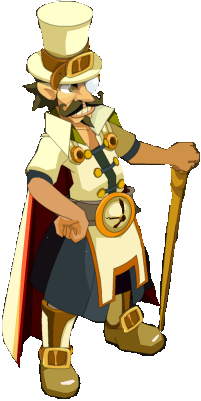
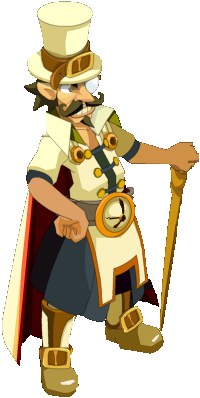
Add angry sbab + show clean answer

diff --git a/server.js b/server.js
@@ -63,7 +63,6 @@ app.post('/getNextStep', (req, res) => {
 		.replace(/\W/ig, '')
 		.toUpperCase();
 
-
 	res.setHeader('Content-Type', 'application/json');
 
 	if(sanitizedAnswer !== '') {
@@ -77,10 +76,10 @@ app.post('/getNextStep', (req, res) => {
 			clues.forEach((clue) => {
 				if(alreadyFoundClue) return;
 
-				const { acceptableAnswers, key, previousKey } = clue;
+				const { acceptableAnswers, key, previousKey, cleanAnswer } = clue;
 
 				// if the clue follow the chronology
-				if(currentKey === previousKey) {
+				if(currentKey === previousKey && acceptableAnswers !== '') {
 
 					// if the anwser matches at least one acceptable answer
 					if(sanitizedAnswer.search(acceptableAnswers) > -1){
@@ -89,7 +88,7 @@ app.post('/getNextStep', (req, res) => {
 							const cluehtmlPath = CLUES_HTML + '/'+ key +'.html';
 							try {
 								const clueHtml = fs.readFileSync(cluehtmlPath, {encoding:'utf8', flag:'r'});
-								res.end(JSON.stringify({ err: 'ok', msg: clueHtml, key: key}));
+								res.end(JSON.stringify({ err: 'ok', msg: clueHtml, key: key, cleanAnswer: cleanAnswer}));
 							} catch (err) {
 								if (err) console.error('Clue html not found ('+cluehtmlPath+')');
 							}
@@ -101,7 +100,7 @@ app.post('/getNextStep', (req, res) => {
 			});
 
 			if(!isCurrentKeyFound) {
-				res.end(JSON.stringify({ err: 'reset', msg: '<p class="text-danger">Cette étape n\'est pas dans notre base de données. Vous devez tout reprendre depuis le début...</p>', key: 'A32LD7REEPT'}));
+				res.end(JSON.stringify({ err: 'reset', msg: '<p class="text-danger">Cette étape n\'est pas dans notre base de données. Vous devez tout reprendre depuis le début...</p>', key: '0CTOSMJF6PH'}));
 			} else {
 				res.end(JSON.stringify({ err: 'wrong', msg: 'Non ce n\'est pas ça :/', key: currentKey}));
 			}

diff --git a/public_html/frontend.js b/public_html/frontend.js
@@ -6,7 +6,7 @@ function start() {
 		$('#answer').removeAttr('disabled');
 		$('#button-answer').removeAttr('disabled');
 		stopLoading();
-		nextStep('A32LD7REEPT');
+		nextStep('0CTOSMJF6PH');
 		$('.answerField').hide().fadeIn(FADE_TIME*2, () => {$('#answer').focus();});
 	})});
 };
@@ -33,26 +33,26 @@ function nextStep(answer) {
 		}
 	})
 	.done((response) => {
-		handleAnswer(response.err, response.msg, response.key, answer);
+		handleAnswer(response.err, response.msg, response.key, response.cleanAnswer);
 	})
 	.always(() => {
 		stopLoading();
 	});	
 }
 
-function handleAnswer(error, htmlToPrint, newKey, answer) {
+function handleAnswer(error, htmlToPrint, newKey, cleanAnswer) {
 	$('#progression').val(newKey);
 	if(error === 'ok'){
-		// show the answer written by the user
-		if(answer !== newKey) {
-			hideAppendAndFadeInHtmlTo('<div class="text-primary center">'+answer+'</div><hr class="separator mb-2"/>', '.indices');
+		// show the perfect answer
+		if(cleanAnswer !== '') {
+			hideAppendAndFadeInHtmlTo('<div class="text-primary center">'+cleanAnswer+'</div><hr class="separator mb-2"/>', '.indices');
 		}
 		// show the next clue
 		hideAppendAndFadeInHtmlTo('<div class="row indice p-2">'+htmlToPrint+'</div>', '.indices');
 		window.scrollBy(0, 300);
 	} else if(error === 'reset'){
 		$('.indices').append('<hr class="separator"/><div class="row indice p-2 mb-3">'+htmlToPrint+'</div>');
-		nextStep('A32LD7REEPT');
+		nextStep('0CTOSMJF6PH');
 	} else {
 		$('.wrongAnswer').html(htmlToPrint);
 		$('.wrongAnswer-container').fadeIn(FADE_TIME/2);

diff --git a/views/clues_html/MMRL6JV1NM6.html b/views/clues_html/MMRL6JV1NM6.html
@@ -12,11 +12,9 @@
 <p><br/>
 	Trouvez la maison et ouvrez le coffre. Le code doit être un nombre très important pour son propriétaire.<br/><br/>
 	Le coffre contient des Kamatrix. Merci d'en prendre <b>un seul</b> et retournez annoncer la bonne nouvelle à Le-Patron à Brâkmar et lancez-lui échange. Il saura vous récompenser à la mesure de vos efforts.<br/>
-	Le 1er joueur obtiendra 5 galets Cramoisi, Rutilant, Brasillant<br/>
-	Le 2nd joueur obtiendra 4 galets Cramoisi, Rutilant, Brasillant<br/>
+	Le 1er joueur obtiendra 10 galets Cramoisi, Rutilant, Brasillant<br/>
+	Le 2nd joueur obtiendra 6 galets Cramoisi, Rutilant, Brasillant<br/>
 	Le 3ème joueur obtiendra 3 galets Cramoisi, Rutilant, Brasillant<br/>
-	Le 4ème joueur obtiendra 2 galets Cramoisi, Rutilant, Brasillant<br/>
-	Le 5ème joueur obtiendra 1 galets Cramoisi, Rutilant, Brasillant<br/>
 	
 	Félicitations, vous avez terminé cette chasse au trésor !
 </p>

diff --git a/views/clues_html/CKM8ESX582V.html b/views/clues_html/CKM8ESX582V.html
@@ -14,5 +14,5 @@
 <div class="clearfix w-100"></div>
 <p>
 	<br/>
-	Allez au cimetière de la ville et lisez l'épitaphe sur la tombe de Lichen. <b class="text-warning"> Comment est-il décédé ?</b>
+	Allez au cimetière de la ville et lisez l'épitaphe sur la tombe de Lichen. <b class="text-warning"> Comment est-il décédé précisément?</b>
 </p>

diff --git a/views/clues_html/EZIBNQ8N4TY.html b/views/clues_html/EZIBNQ8N4TY.html
@@ -39,6 +39,6 @@
 	</div>
 </div>
 <div class="col-md-3 col-12 center">
-	<img class="npc-img img-flip" src="public_html/img/sbab_back.png"/>
+	<img class="npc-img img-flip" src="public_html/img/sbab_angry.png"/>
 </div>
 <div class="clearfix w-100"></div>

diff --git a/README.md b/README.md
@@ -13,3 +13,19 @@
 `iptables -A PREROUTING -t nat -i eth0 -p tcp --dport 80 -j REDIRECT --to-port 8000`
 
 `nodemon server.js --config nodemon.json`
+
+
+** Rabbit's Position **
+White	-26,-16
+Blue	-26,-13
+Yeahlow	-28,-13
+Black	-28,-12
+Green	-25,-12
+Orange	-25,-14
+
+
+Don't forget to 
+	/solo, 
+	put on the rabbit's earpuff 
+	point out directions
+	Don't be too close to the border (interface could cover the Rabbit)
